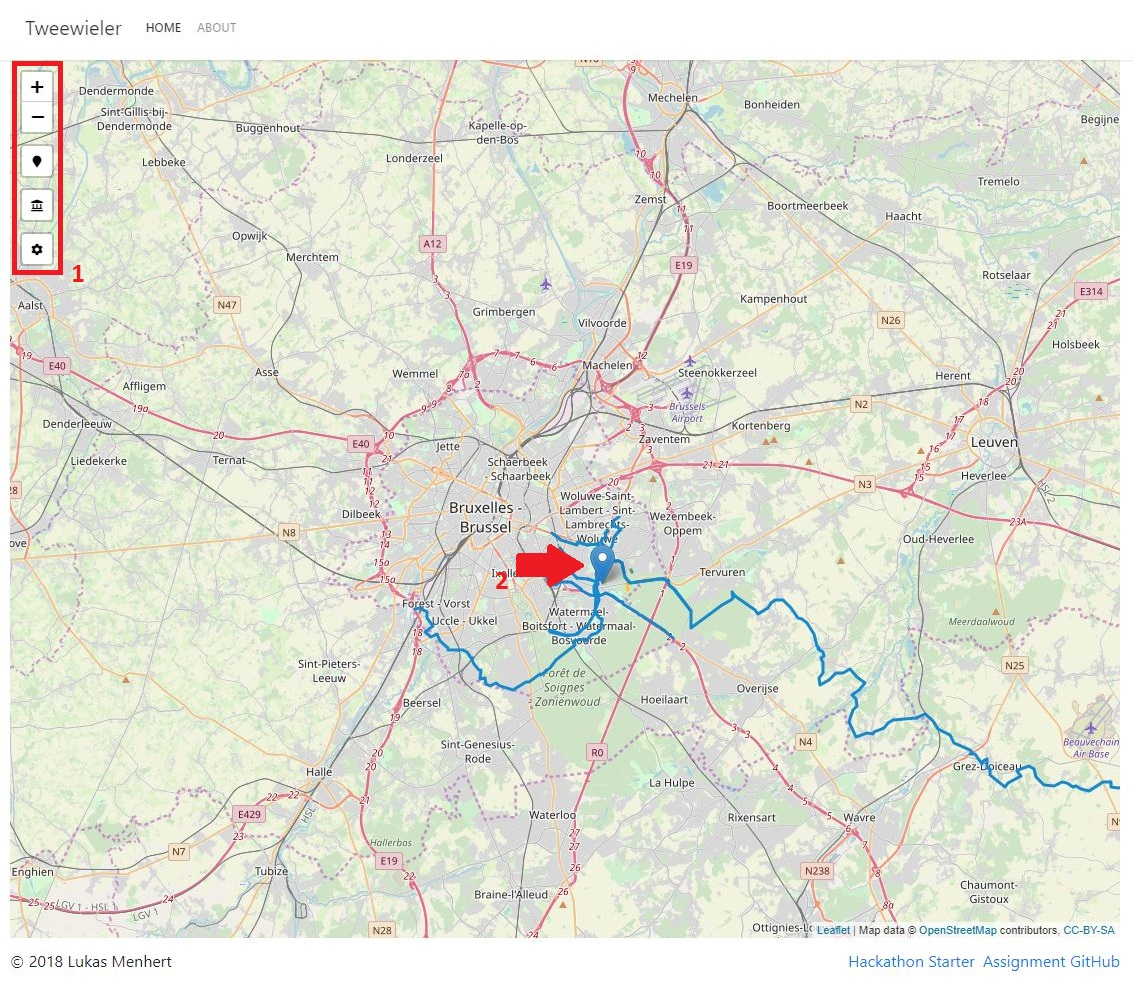
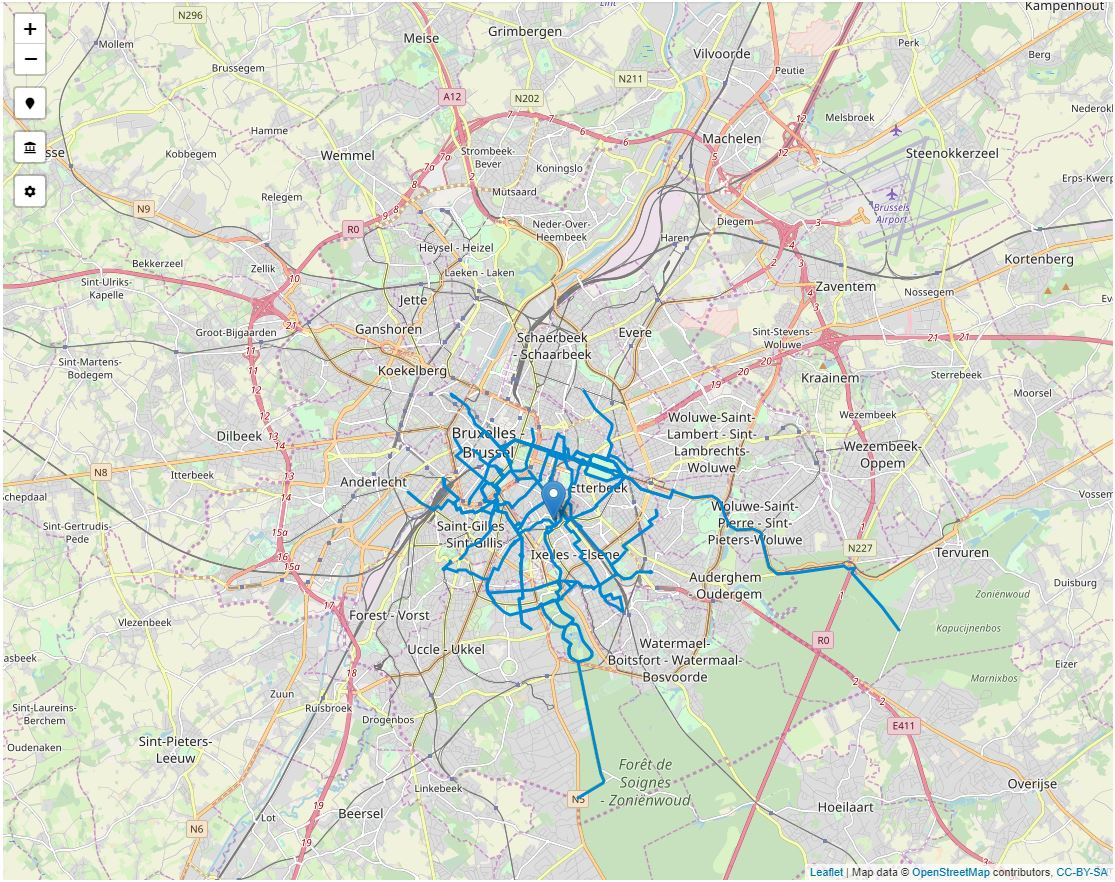
Add project description and color legend in all bicycle related

diff --git a/public/js/main.js b/public/js/main.js
@@ -273,7 +273,7 @@ $(document).ready(() => {
             circleMarker = L.circleMarker([geojsonCoord[1], geojsonCoord[0]], {
               color: getPointColor(result[i].amenity, result[i].shop),
               fillColor: '#ffffff',
-              fillOpacity: 0.3,
+              fillOpacity: 1,
               radius: 7
             }).bindPopup(popup === '' ? 'No data available' : popup);
             geoPointsLayer.addLayer(circleMarker);
@@ -387,7 +387,7 @@ $(document).ready(() => {
           circleMarker = L.circleMarker([geojsonCoord[1], geojsonCoord[0]], {
             color: '#ffffff',
             fillColor: provinceColor(selectedProvince),
-            fillOpacity: 0.8,
+            fillOpacity: 1,
             radius: 7
           }).bindPopup(popup === '' ? 'No data available' : popup);
           geoAttractionsLayer.addLayer(circleMarker);

diff --git a/public/css/main.scss b/public/css/main.scss
@@ -166,3 +166,30 @@ ul.list-results {
   overflow-y: auto;
 }
 
+.foo {
+  float: right;
+  width: 24px;
+  height: 24px;
+  border: 5px solid;
+}
+
+.rental-color {
+  border-color:  #000000;
+  background: #ffffff;
+}
+.parking-color {
+  border-color: #3d67ff;
+  background: #ffffff;
+}
+.repair-color {
+  border-color: #ffa838;
+  background: #ffffff;
+}
+.shops-color {
+  border-color: red;
+  background: #ffffff;
+}
+
+
+
+

diff --git a/README.md b/README.md
@@ -12,7 +12,16 @@ Build a map-based application, which lets the user see geo-based data on a map a
 
 ## My project
 
-**Application description**: Tweewieler application aims to help and encourage cyclists to go and explore their surroundings. It is currently using only Belgium data.
+**Application description**: Tweewieler application aims to help encourage cyclists to go and explore their surroundings. User is able to enter his location with a mouse click on a map. This triggers search for bicycle routes near his or her location. Further functionality includes:
+<dl>
+  <dt>Search all things bicycle related</dt>
+  <dd>
+    User can search for bicycle rentals, parkings, repair stations and shops. Search is performed in respect to user current location and radius entered.
+  </dd>
+
+  <dt>Search for tourist landmarks and attractions</dt>
+  <dd>User is able to pick one from Belgium provinces and show all the landmarks it contains. Landmarks showed may be one of these categories: bunker, castle, fort, memorial, monument, ruins, unspecific attraction, binoculars, viewpoint.</dd>
+</dl>
 
 **Data source**: `https://download.geofabrik.de/europe/belgium.html`
 
@@ -20,28 +29,48 @@ Build a map-based application, which lets the user see geo-based data on a map a
 
 **Documentation**:
 After opening the application, user is presented with map view and simple controls shown on the picture:
-![Tweewieler main screen](main.jpg)
+
+Main view                             |  All things bicycle related
+:------------------------------------:|:-----------------------------------------------:
+![Tweewieler main screen](main.jpg)   |  ![Searched provinces](all_things_related.jpg)
+
+Province preview                    |  Province searched for landmarks
+:----------------------------------:|:-----------------------------------------------:
+![Preview province](province.jpg)   |  ![Searched provinces](province-searched.jpg)
+
+Options                    |
+:----------------------------------:|
+![Options](settings.jpg)   |
+
 
 **Creating indices to improve performance**: 
 
+```sql
 CREATE INDEX point_amenity
   ON planet_osm_point (amenity);
 CREATE INDEX point_shop
   ON planet_osm_point (shop)
   WHERE shop = 'bicycle';
+```
 
+```sql
 CREATE INDEX polygon_boundary
   ON planet_osm_polygon (boundary)
   WHERE boundary = 'administrative';
 CREATE INDEX polygon_admin_leve
   ON planet_osm_polygon (admin_level)
   WHERE admin_level = '6';
+```
 
+```sql
 CREATE INDEX point_historic
   ON planet_osm_point (historic);
 CREATE INDEX point_tourism
   ON planet_osm_point (tourism);
+```
 
+```sql
 CREATE INDEX lines_route
   ON planet_osm_line (route)
   WHERE route = 'bicycle';
+```
